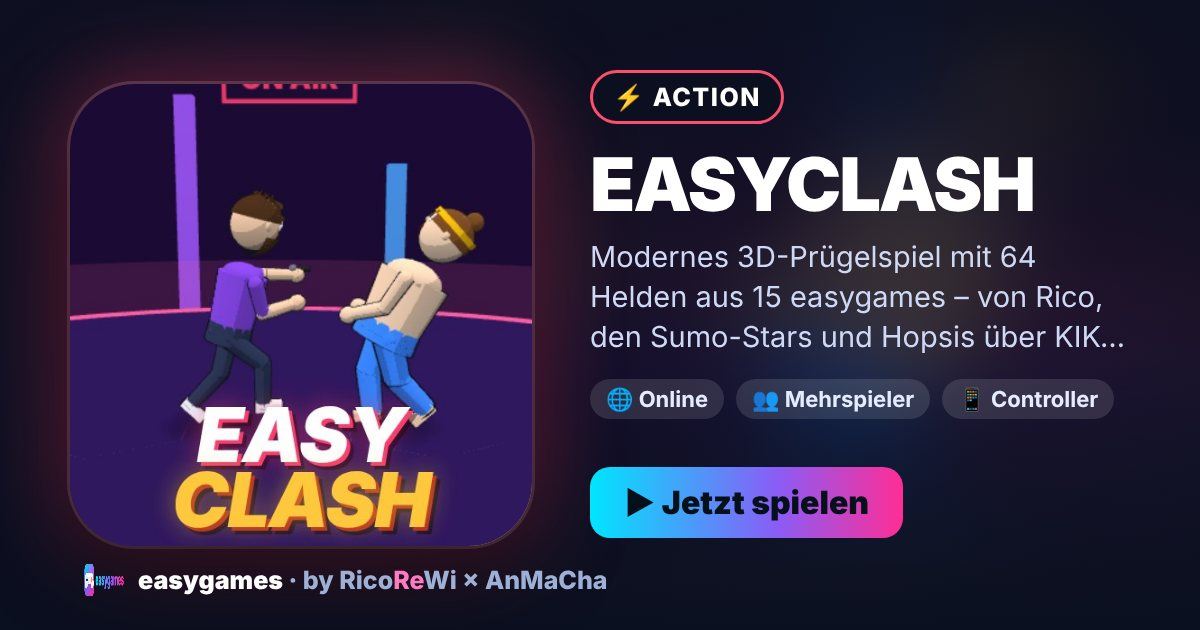
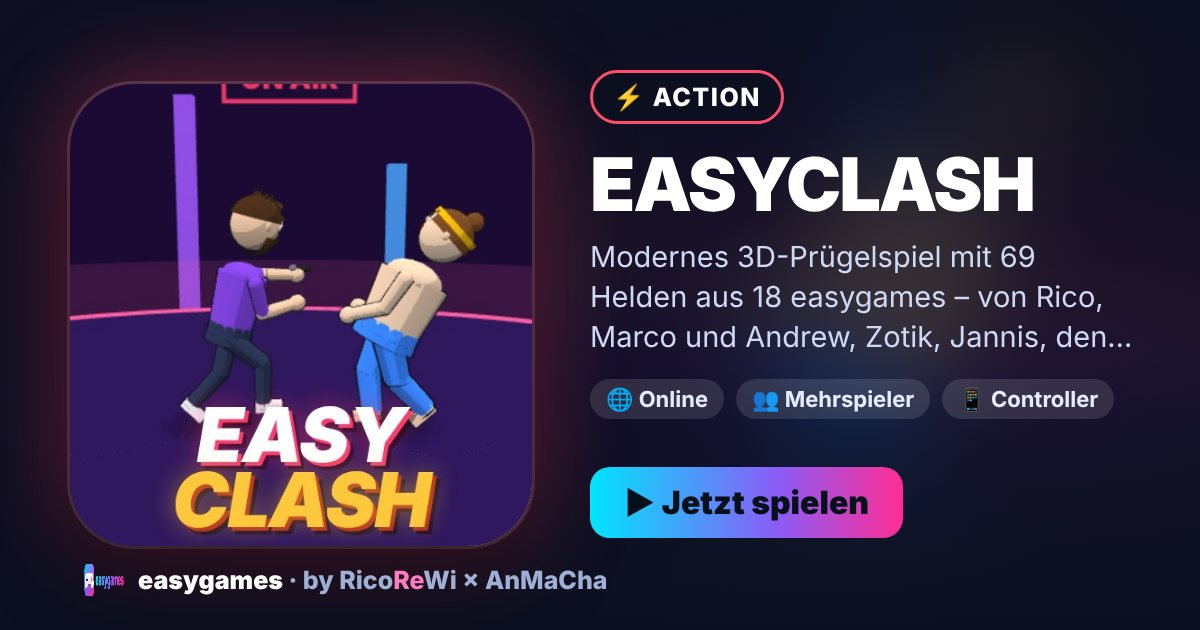
EASYCLASH: Zotik, Felli, Jannis, Marco und Andrew als Kämpfer (69)
Zotik und Felli aus ZOTIK, Jannis aus Bunte Insel (blonder Pilzkopf,
Fernsteuerung), Marco (Bart, Kopfhörer) und Andrew (Mikro) aus dem
AnMaCha Podcast Tycoon – Aussehen aus den jeweiligen Spielen übernommen.

Claude-Session: https://claude.ai/code/session_01BNv8Njj7pvnumgTtZZdm1m

diff --git a/share/easyclash.html b/share/easyclash.html
@@ -1,13 +1,13 @@
 <!doctype html>
 <html lang="de"><head><meta charset="utf-8"><meta name="viewport" content="width=device-width,initial-scale=1">
 <title>EASYCLASH – easygames</title>
-<meta name="description" content="Modernes 3D-Prügelspiel mit 64 Helden aus 15 easygames – von Rico, den Sumo-Stars und Hopsis über KIKO, Krawallvögel, Kart- und Urwaldlager-Stars bis zu Ulk-Kämpfern wie Kampf-Würstchen…">
+<meta name="description" content="Modernes 3D-Prügelspiel mit 69 Helden aus 18 easygames – von Rico, Marco und Andrew, Zotik, Jannis, den Sumo-Stars und Hopsis über KIKO, Krawallvögel, Kart- und Urwaldlager-Stars bis zu…">
 <link rel="canonical" href="https://ricorewioriginal-collab.github.io/easygames/easyclash/">
 <meta property="og:type" content="website"><meta property="og:site_name" content="easygames by RicoReWi × AnMaCha">
-<meta property="og:title" content="EASYCLASH – jetzt kostenlos spielen"><meta property="og:description" content="Modernes 3D-Prügelspiel mit 64 Helden aus 15 easygames – von Rico, den Sumo-Stars und Hopsis über KIKO, Krawallvögel, Kart- und Urwaldlager-Stars bis zu Ulk-Kämpfern wie Kampf-Würstchen…">
+<meta property="og:title" content="EASYCLASH – jetzt kostenlos spielen"><meta property="og:description" content="Modernes 3D-Prügelspiel mit 69 Helden aus 18 easygames – von Rico, Marco und Andrew, Zotik, Jannis, den Sumo-Stars und Hopsis über KIKO, Krawallvögel, Kart- und Urwaldlager-Stars bis zu…">
 <meta property="og:url" content="https://ricorewioriginal-collab.github.io/easygames/share/easyclash.html"><meta property="og:image" content="https://ricorewioriginal-collab.github.io/easygames/share/easyclash.jpg"><meta property="og:image:width" content="1200"><meta property="og:image:height" content="630">
 <meta property="og:image:alt" content="EASYCLASH – easygames"><meta property="og:locale" content="de_DE">
-<meta name="twitter:card" content="summary_large_image"><meta name="twitter:title" content="EASYCLASH – jetzt kostenlos spielen"><meta name="twitter:description" content="Modernes 3D-Prügelspiel mit 64 Helden aus 15 easygames – von Rico, den Sumo-Stars und Hopsis über KIKO, Krawallvögel, Kart- und Urwaldlager-Stars bis zu Ulk-Kämpfern wie Kampf-Würstchen…"><meta name="twitter:image" content="https://ricorewioriginal-collab.github.io/easygames/share/easyclash.jpg">
+<meta name="twitter:card" content="summary_large_image"><meta name="twitter:title" content="EASYCLASH – jetzt kostenlos spielen"><meta name="twitter:description" content="Modernes 3D-Prügelspiel mit 69 Helden aus 18 easygames – von Rico, Marco und Andrew, Zotik, Jannis, den Sumo-Stars und Hopsis über KIKO, Krawallvögel, Kart- und Urwaldlager-Stars bis zu…"><meta name="twitter:image" content="https://ricorewioriginal-collab.github.io/easygames/share/easyclash.jpg">
 <noscript><meta http-equiv="refresh" content="0;url=../easyclash/"></noscript>
 <script>(function(){var to=new URLSearchParams(location.search).get('to');
 // ?to=<Adresse>: Vorschau (Bild, Text) von easygames, weiter zur einbindenden Seite. Bekannte Seiten sofort, andere nach einem Klick.

diff --git a/easyclash/js/roster.js b/easyclash/js/roster.js
@@ -113,6 +113,20 @@
   add('radio-maze', 'Radio Maze 3D', [
     { id: 'rm-rauschi', n: 'Rauschi', sp: 'shot', d: 'Das Störgeräusch aus dem Labyrinth.', stats: { walk: 2.6 }, look: { kind: 'blob', skin: '#ff2b2b', top: '#ff2b2b', bottom: '#c41a1a', shoes: '#c41a1a', eyes: '#1a3cff', fx: '#ff5252' } }
   ]);
+  // ZOTIK – Die Splitter der Welten
+  add('zotik', 'ZOTIK', [
+    { id: 'zo-zotik', n: 'Zotik', sp: 'spin', d: 'Der Fuchs aus Lunaris – mit Schwanz-Trick.', stats: { walk: 2.9, speed: 1.1 }, look: { kind: 'beast', skin: '#e8731c', top: '#e8731c', bottom: '#5a3a28', shoes: '#3a2418', belly: '#fff2e0', snout: '#fff2e0', ears: 'fox', tail: '#e8731c', scarf: '#4be3c8', eyes: '#2a6a5a', fx: '#4be3c8' } },
+    { id: 'zo-felli', n: 'Felli', sp: 'dive', d: 'Mooslingchen – macht „Pip!“.', stats: { walk: 2.8, weight: .75, power: .92 }, look: { kind: 'blob', skin: '#9be05a', top: '#9be05a', bottom: '#5a9a30', shoes: '#5a9a30', belly: '#d8f7b0', eyes: '#1b1b1b', size: .8, head: 1.15, fx: '#9be05a' } }
+  ]);
+  // Bunte Insel
+  add('bunte-insel', 'Bunte Insel', [
+    { id: 'bi-jannis', n: 'Jannis', sp: 'rush', d: 'Der Held der Bunten Insel – mit Fernsteuerung.', stats: { walk: 3.0, speed: 1.12, weight: .75, power: .92 }, look: { skin: '#f7d6c0', top: '#1f2a44', bottom: '#7a5230', shoes: '#1f2a44', hair: { style: 'bowl', color: '#f6dc8a' }, eyes: '#52759a', print: '#9be37a', size: .8, head: 1.25, antenna: '#ff3d00', fx: '#4fc3f7' } }
+  ]);
+  // AnMaCha Podcast Tycoon 3D
+  add('anmacha-podcast-tycoon', 'AnMaCha Podcast Tycoon', [
+    { id: 'pt-marco', n: 'Marco', sp: 'shot', d: 'Technik-Herz und Serienkenner – Kabel ist Leidenschaft!', stats: { power: 1.08, weight: 1.12, walk: 2.2 }, look: { skin: '#f0c8a8', top: '#16171c', bottom: '#2b2f3a', shoes: '#1b1b1b', hair: { style: 'short', color: '#6b4528' }, beard: '#6b4528', print: '#ff8a1e', headphones: true, bulk: 1.12, fx: '#6ef0ff' } },
+    { id: 'pt-andrew', n: 'Andrew', sp: 'rush', d: 'Musikgefühl, Herzlichkeit und ein Lachen bis in die Kaffeeküche.', stats: { speed: 1.05 }, look: { skin: '#f3cdb2', top: '#16171c', bottom: '#3a4f78', shoes: '#1b1b1b', hair: { style: 'short', color: '#c9844a' }, print: '#ff8a1e', mic: true, fx: '#ffb02e' } }
+  ]);
   // Ulk-Kämpfer
   add('easyclash', 'EASYCLASH-Ulk', [
     { id: 'ulk-wurst', n: 'Kampf-Würstchen', sp: 'shot', d: 'Schießt mit Senf. Riecht nach Grillfest.', stats: { weight: 1.05 }, look: { kind: 'blob', shape: 'tall', skin: '#c9683a', top: '#c9683a', bottom: '#c9683a', shoes: '#8d3f1d', print: '#ffd23f', eyes: '#1b1b1b', fx: '#ffd23f' } },

diff --git a/games.js b/games.js
@@ -86,7 +86,7 @@ const GAMES = [
   { id: 'huepfstrasse', title: 'Hüpfstraße – Hüpf so weit du kannst!', icon: '🐾', img: 'huepfstrasse/card.jpg', bg: 'linear-gradient(145deg,#7fd0ff,#6cc644 55%,#ffd23f)', glow: 'rgba(108,198,68,.5)',
     path: 'huepfstrasse/', desc: 'Endlos-Hüpfspiel im Klötzchen-Look: Hüpf über Straßen voller Autos und Laster, über Flüsse auf Baumstämmen und Seerosen und über Gleise, bevor der Zug kommt. Wer trödelt, den schnappt die Funk-Drohne. Münzen sammeln und 13 Figuren freischalten – mit Rico, Glamour-Star, Kleinem Flitzer, Waldläuferin mit Hund, Hallen-Fan, Pingu, Einhorn und mehr. Fünf Gebiete und eine Tagesstrecke für alle.' },
   { id: 'easyclash', title: 'EASYCLASH – Das Turnier aller Helden', icon: '🥊', img: 'easyclash/card.jpg', bg: 'linear-gradient(145deg,#ff3d6e,#3a0f2a 55%,#ffc83d)', glow: 'rgba(255,61,110,.5)',
-    path: 'easyclash/', desc: 'Modernes 3D-Prügelspiel mit 64 Helden aus 15 easygames – von Rico, den Sumo-Stars und Hopsis über KIKO, Krawallvögel, Kart- und Urwaldlager-Stars bis zu Ulk-Kämpfern wie Kampf-Würstchen und Klopapier-Ninja. Vier Knöpfe für Fäuste und Füße, Richtung + Knopf, Ketten, Seitschritt, Würfe, Aushebler mit Luft-Kombos, Spezialangriff je Figur und das Finale. Arcade, Versus zu zweit, Gegen CPU, Training und 🌐 Online & Handys als Controller.' },
+    path: 'easyclash/', desc: 'Modernes 3D-Prügelspiel mit 69 Helden aus 18 easygames – von Rico, Marco und Andrew, Zotik, Jannis, den Sumo-Stars und Hopsis über KIKO, Krawallvögel, Kart- und Urwaldlager-Stars bis zu Ulk-Kämpfern wie Kampf-Würstchen und Klopapier-Ninja. Vier Knöpfe für Fäuste und Füße, Richtung + Knopf, Ketten, Seitschritt, Würfe, Aushebler mit Luft-Kombos, Spezialangriff je Figur und das Finale. Arcade, Versus zu zweit, Gegen CPU, Training und 🌐 Online & Handys als Controller.' },
   { id: 'anmacha-preisradar', title: 'AnMaCha Preisradar', icon: '💶', img: 'anmacha-preisradar/card.png', bg: 'linear-gradient(145deg,#1a1a6a,#8b5cf6 50%,#ff9a1f)', glow: 'rgba(255,154,31,.55)',
     path: 'anmacha-preisradar/', desc: 'Das Preis-Schätzspiel: Gebotsduell, Frequenz-Skala, Teurer oder billiger, Einkaufswagen und Preisfinale – bis zu 4 Spieler, Computer-Gegner, geheime Tipps per Handy. 200+ Produkte, präsentiert vom RicoReWi Radioportal.' },
   { id: 'anmacha-funkparcours', title: 'AnMaCha Funkparcours', icon: '🏃', img: 'anmacha-funkparcours/card.png', bg: 'linear-gradient(145deg,#1a1a6a,#00b8d9 55%,#ff2d95)', glow: 'rgba(0,184,217,.55)',

diff --git a/README.md b/README.md
@@ -55,7 +55,7 @@ Spieleliste (GitHub Pages): https://ricorewioriginal-collab.github.io/easygames/
 | Wolkenhopser – Hopsi will nach oben! Endlos-Springspiel (Canvas 2D, eigene Figuren): Plattformarten, Federn, Trampoline, Propellermütze, Raketenrucksack, Schutzblase, Monster, schwarze Löcher, 5 Gebiete, 8 Hopsis zum Freischalten, Tagesrekord, 🌐 Online-Rennen (alle in derselben Welt); Ladebildschirm, Konsolen-Menü, Game over, Rangliste; Touch (Hälften oder Neigen), Tastatur, Controller | [`wolkenhopser/`](wolkenhopser/) |
 | 2048 Deluxe – Die Zahlen-Show mit Rico: 2048 in 3D (Three.js, Toon-Look) mit Moderator Rico als Comic-Figur, der auf Züge reagiert; Klassisch 3×3–6×6 (speichert automatisch), Blitz (3 Min.), Tages-2048 zum Teilen, Zen, Antippen (zwei gleiche Zahlen antippen); Rückgängig- und Hammer-Joker; Ladebildschirm, Konsolen-Menü, Sieg- und Game-over-Bildschirm, Rekorde, Rangliste; Wischen, Tastatur, Controller | [`deluxe-2048/`](deluxe-2048/) |
 | Hüpfstraße – Hüpf so weit du kannst! Endlos-Hüpfspiel im Klötzchen-Look (Three.js, eigene Figuren): Straßen, Flüsse mit Stämmen/Seerosen, Gleise mit Zug-Warnung, Funk-Drohne, Münzen, 13 Figuren (u. a. Rico, Waldläuferin mit Hund), 5 Gebiete, Tagesstrecke zum Teilen; Ladebildschirm, Konsolen-Menü, Figuren-Laden, Game over, Rekorde, Rangliste; Tippen/Wischen, Tastatur, Controller | [`huepfstrasse/`](huepfstrasse/) |
-| EASYCLASH – Das Turnier aller Helden: 3D-Prügelspiel (Three.js, Toon-Look) mit 64 Figuren aus 15 easygames; 4 Knöpfe (Fäuste/Füße) mit Befehlsliste, Trefferstopp, Ketten, Seitschritt, hoch/mittel/tief, Würfe, Luft-Kombos, Spezial je Figur, Wut & Finale; Arcade (Rangliste), Versus, Gegen CPU, Training, 🌐 Online & Handys als Controller; 6 Arenen; Tastatur (2 Spieler), Controller, Touch | [`easyclash/`](easyclash/) |
+| EASYCLASH – Das Turnier aller Helden: 3D-Prügelspiel (Three.js, Toon-Look) mit 69 Figuren aus 18 easygames; 4 Knöpfe (Fäuste/Füße) mit Befehlsliste, Trefferstopp, Ketten, Seitschritt, hoch/mittel/tief, Würfe, Luft-Kombos, Spezial je Figur, Wut & Finale; Arcade (Rangliste), Versus, Gegen CPU, Training, 🌐 Online & Handys als Controller; 6 Arenen; Tastatur (2 Spieler), Controller, Touch | [`easyclash/`](easyclash/) |
 | AnMaCha Frequenzrad – Buchstaben-Rätsel mit Glücksrad, bis zu 4 Spieler + Computer, Handy-Kopplung (reines HTML/CSS/JS, Sounds im Browser erzeugt, 150 Rätsel) | [`anmacha-frequenzrad/`](anmacha-frequenzrad/) |
 | AnMaCha Preisradar – Preis-Schätzspiel mit 5 Spielarten, bis zu 4 Spieler + Computer, Handy-Kopplung (reines HTML/CSS/JS, Sounds im Browser erzeugt, 208 Produkte) | [`anmacha-preisradar/`](anmacha-preisradar/) |
 | AnMaCha Funkparcours – 3D-Hindernis-Zeitspiel (Einzelläufe, Zeiten werden verglichen), 3 Parcours, Geist, bis zu 4 Läufer, Handys als Pads (Three.js, Sounds im Browser erzeugt) | [`anmacha-funkparcours/`](anmacha-funkparcours/) |
